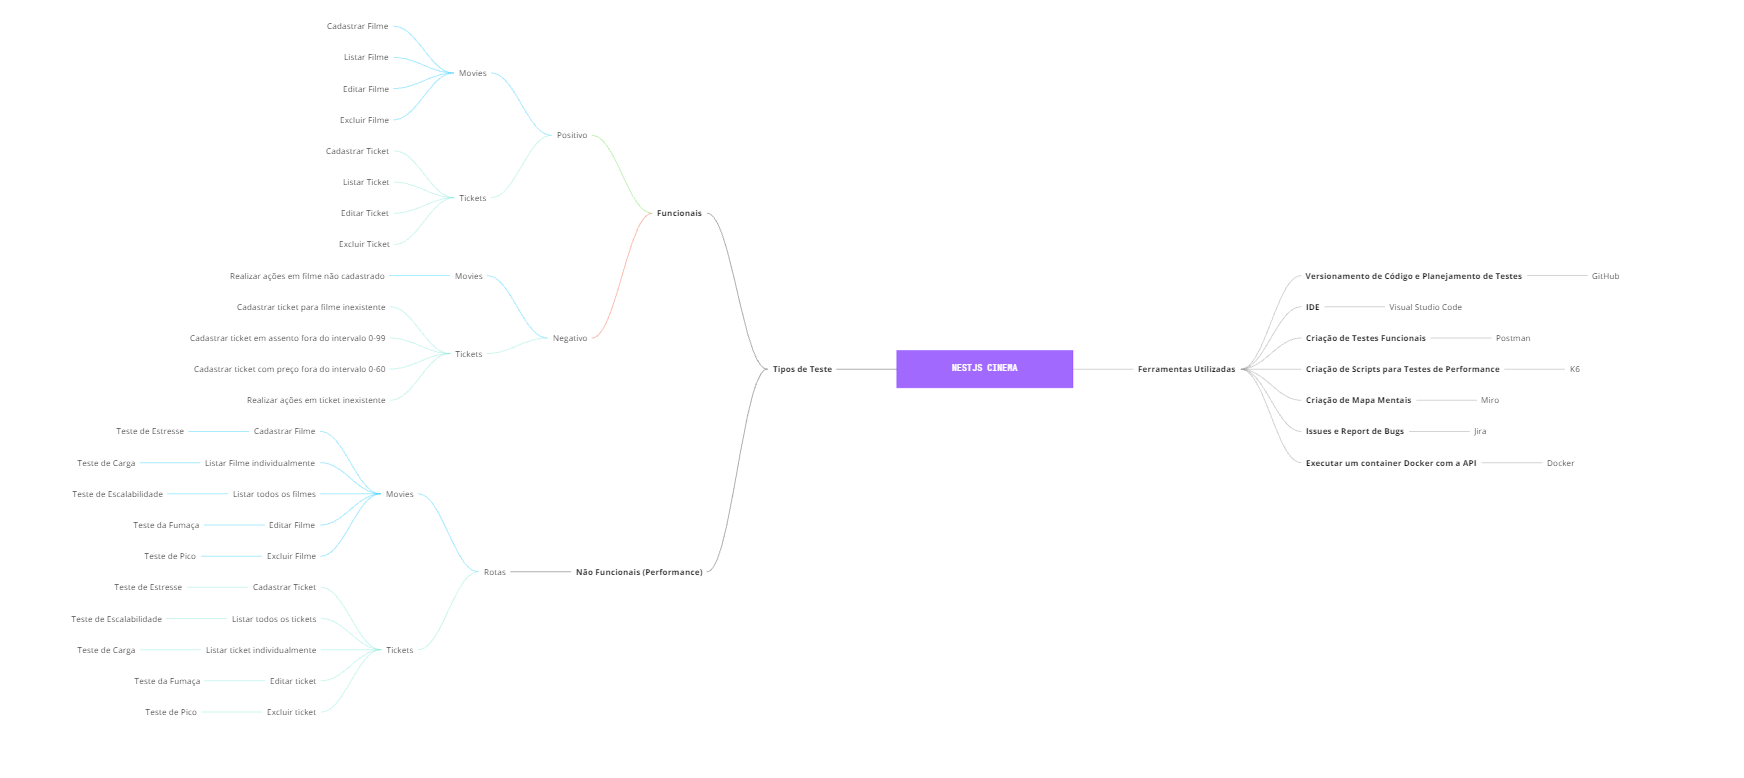
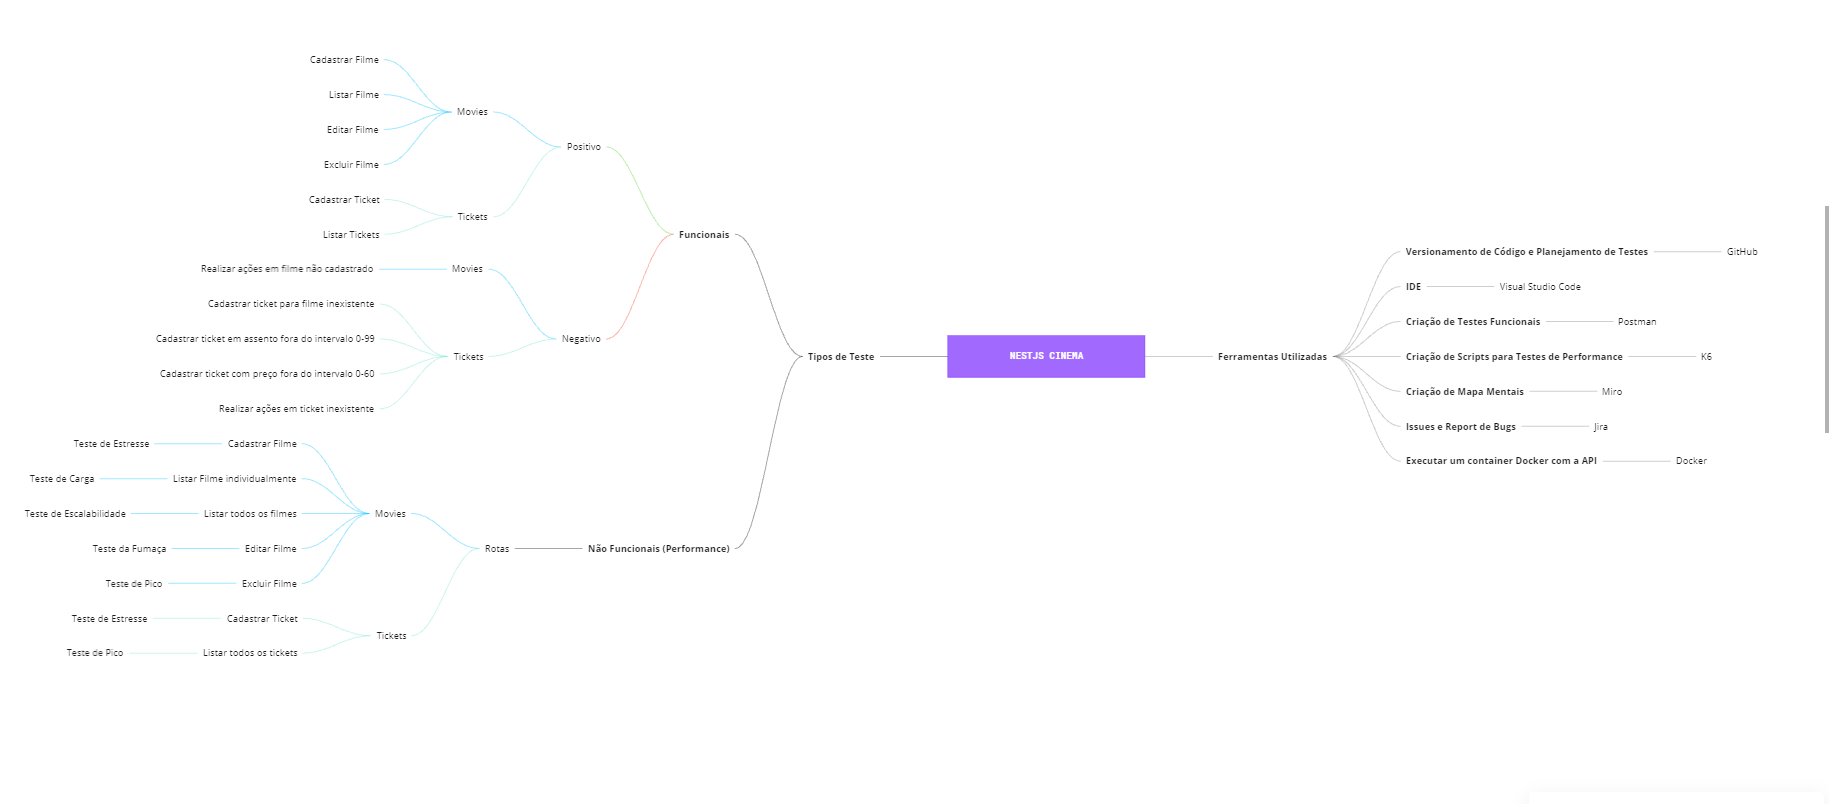
ajustando o mapa mental e atualizando o readme

diff --git a/README.md b/README.md
@@ -93,3 +93,7 @@ Desenvolvi este mapa mental com foco no planejamento dos testes para a sprint. E
 - Procurar Ticket por id;  
 - Editar ticket;  
 - Excluir Ticket;  
+
+# Resultados dos Testes Funcionais
+
+Os resultados dos Testes Funcionais foram publicados no **Jira** (https://rodrigorigo.atlassian.net/plugins/servlet/ac/com.soldevelo.apps.test_management/test-cycles?board.id=1&project.key=SCRUM&project.id=10000&board.type=simple). Nele, estão contidos breves explicações sobre o que foi testado, prints, além de resultado (**"Passed"** ou **"Failed"**)
